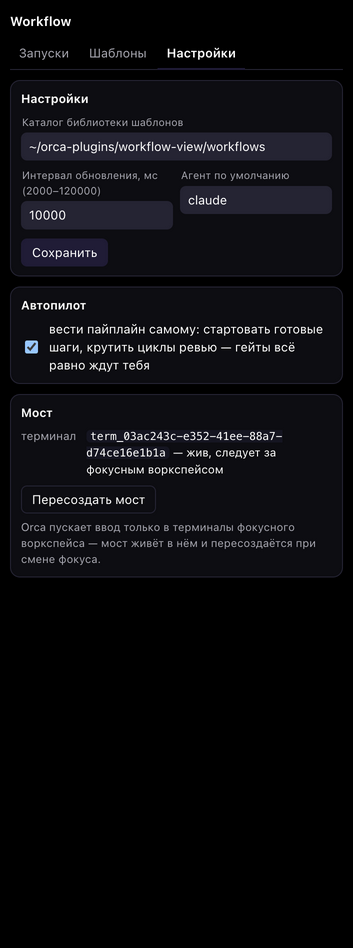
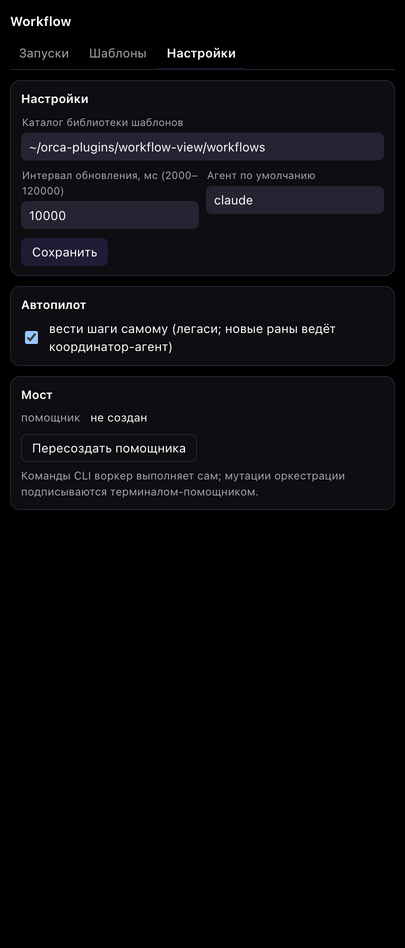
settings: uniform field heights; autopilot checkbox text shortened (legacy note); the bridge card describes the spawn architecture — helper terminal for orchestration mutations, not the retired focus-following terminal

diff --git a/src/panel.html b/src/panel.html
@@ -65,6 +65,7 @@
       input, select {
         font: inherit; color: var(--orca-foreground); background: var(--orca-input);
         border: 1px solid var(--orca-border); border-radius: 6px; padding: 4px 7px; width: 100%;
+        height: 28px; box-sizing: border-box;
       }
       input:focus, select:focus { outline: 1.5px solid var(--orca-accent); outline-offset: -1px; }
       label.f { display: block; margin: 7px 0 0; }
@@ -744,13 +745,13 @@
           <div class="rowline" style="margin-top:9px"><button class="btn primary" data-act="save-cfg">Сохранить</button></div></div>
         <div class="card"><h2>Автопилот</h2>
           <label class="rowline"><input type="checkbox" id="autopilot" style="width:auto"${S.autoPilot === false ? '' : ' checked'}/>
-          <span>вести пайплайн самому: стартовать готовые шаги, крутить циклы ревью — гейты всё равно ждут тебя</span></label></div>
+          <span>вести шаги самому (легаси; новые раны ведёт координатор-агент)</span></label></div>
         <div class="card"><h2>Мост</h2>
           <div class="kv">
-            <span>терминал</span><span>${S.bridge ? `<code>${esc(S.bridge)}</code> — жив, следует за фокусным воркспейсом` : 'не создан'}</span>
+            <span>помощник</span><span>${S.bridge ? `<code>${esc(S.bridge.slice(0, 22))}…</code>` : 'не создан'}</span>
           </div>
-          <div class="rowline" style="margin-top:8px"><button class="btn" data-act="reset-bridge">Пересоздать мост</button></div>
-          <div class="tiny muted" style="margin-top:6px">Orca пускает ввод только в терминалы фокусного воркспейса — мост живёт в нём и пересоздаётся при смене фокуса.</div></div>`
+          <div class="rowline" style="margin-top:8px"><button class="btn" data-act="reset-bridge">Пересоздать помощника</button></div>
+          <div class="tiny muted" style="margin-top:6px">Команды CLI воркер выполняет сам; мутации оркестрации подписываются терминалом-помощником.</div></div>`
       }
 
       // ------------------------------------------------------------------ boot
